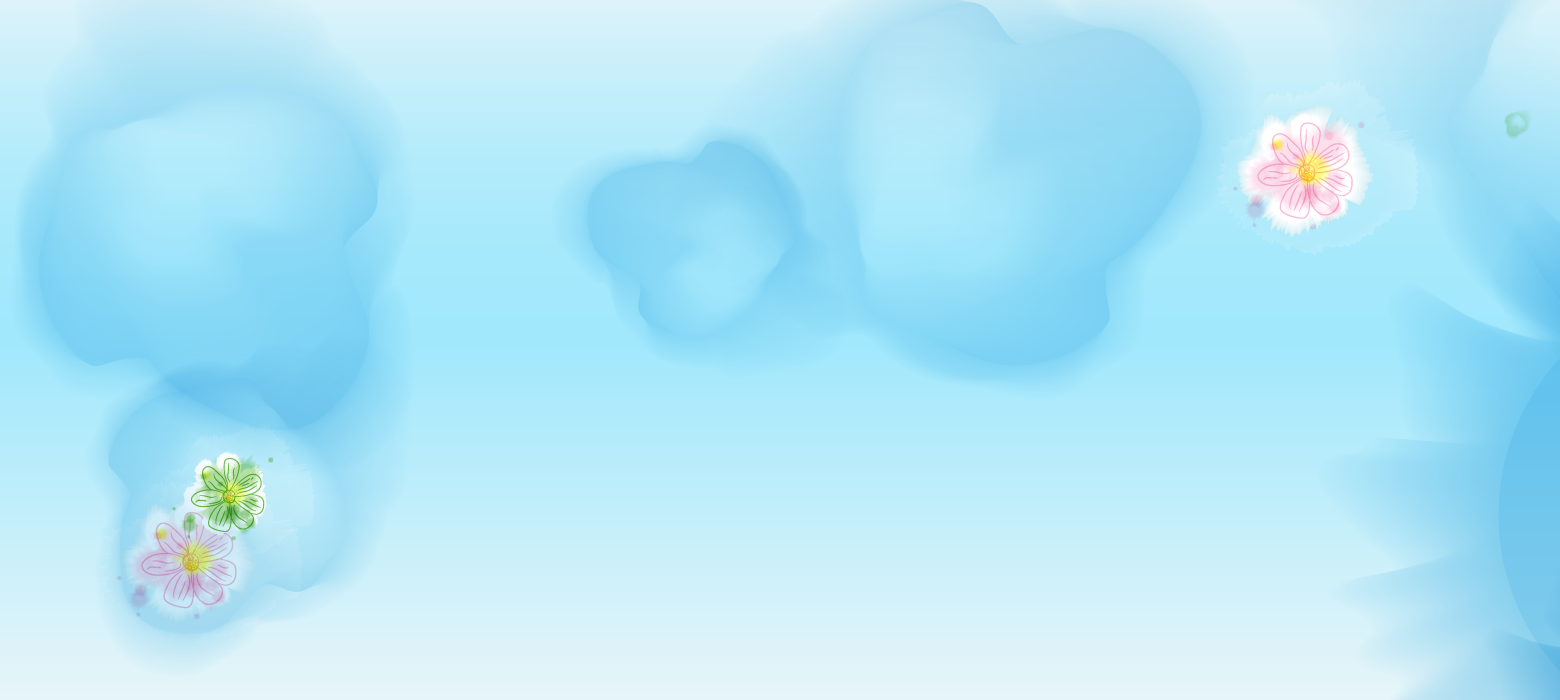
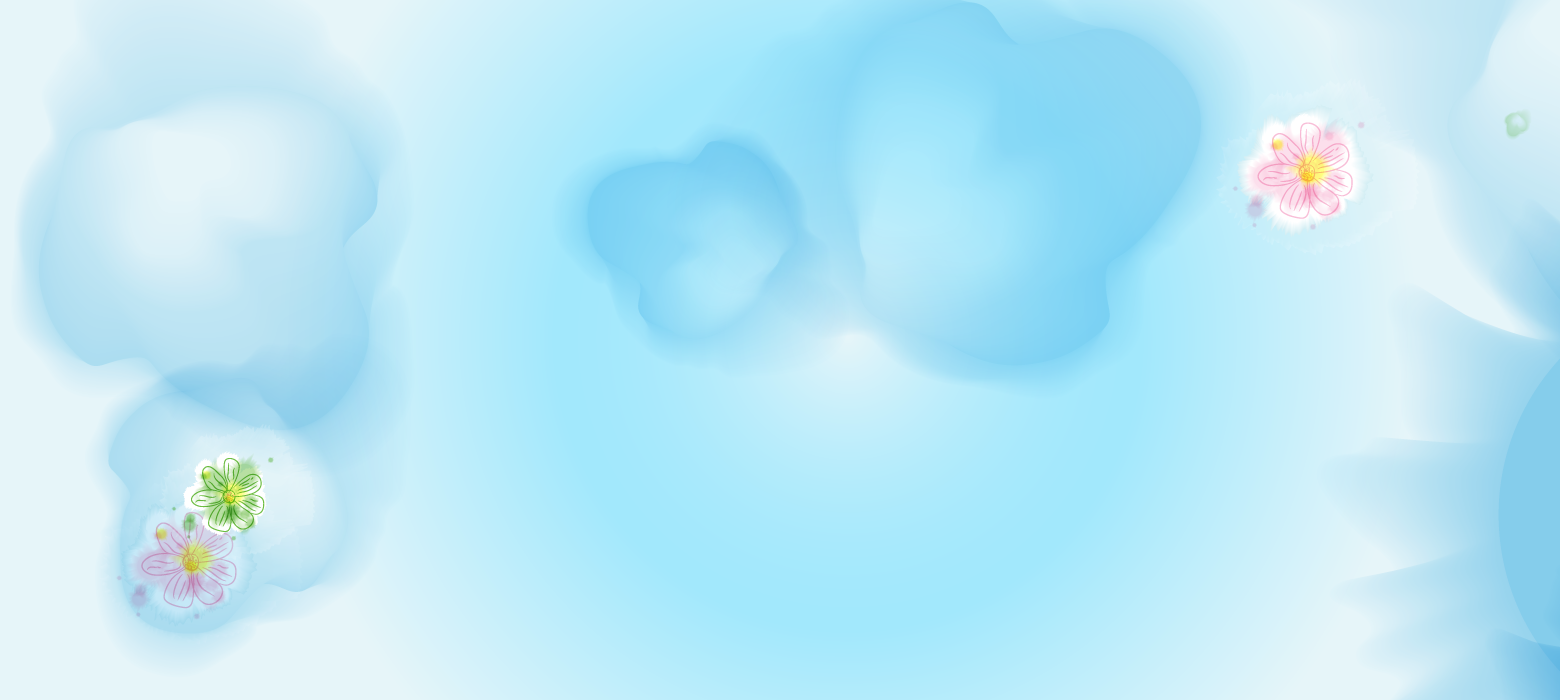
change background

diff --git a/static/css/base.css b/static/css/base.css
@@ -2,7 +2,7 @@ body {
     margin: 0 auto;
     padding: 0;
     background-image: url("../image/bg.png");
-    background-position: center;
+    background-position: top center;
     background-repeat: no-repeat;
     background-color: #E6F5F9 ;
 }
